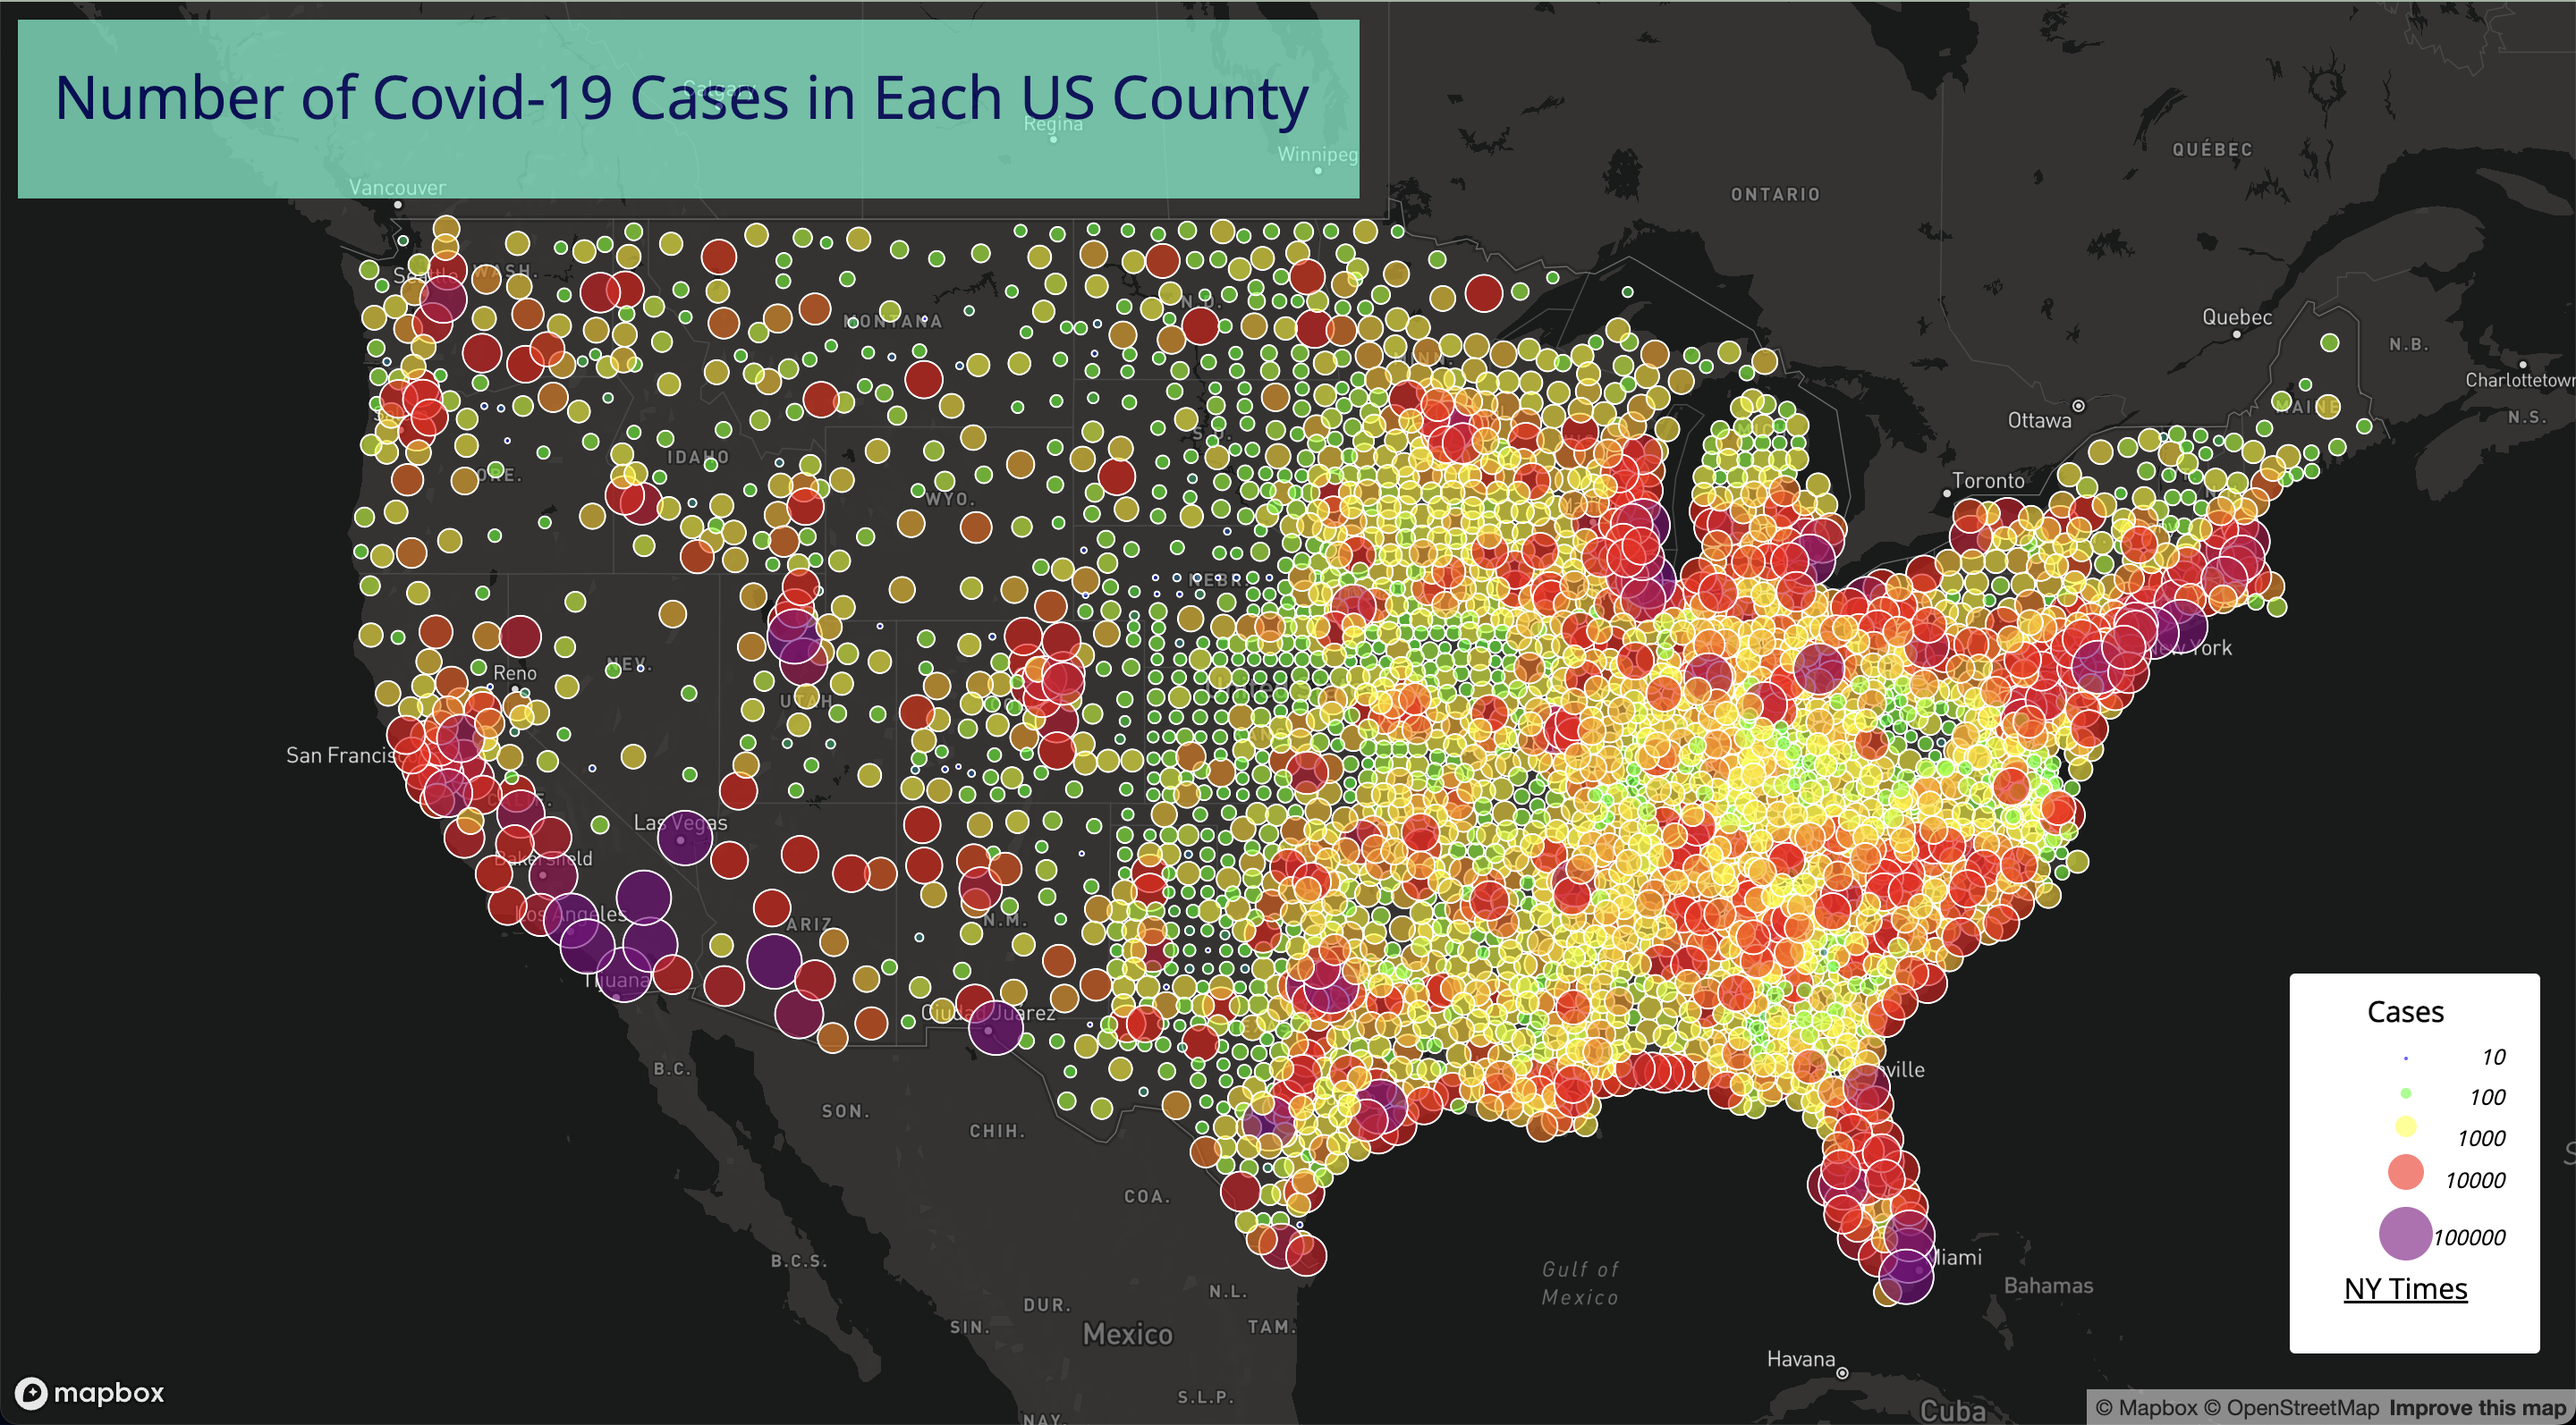
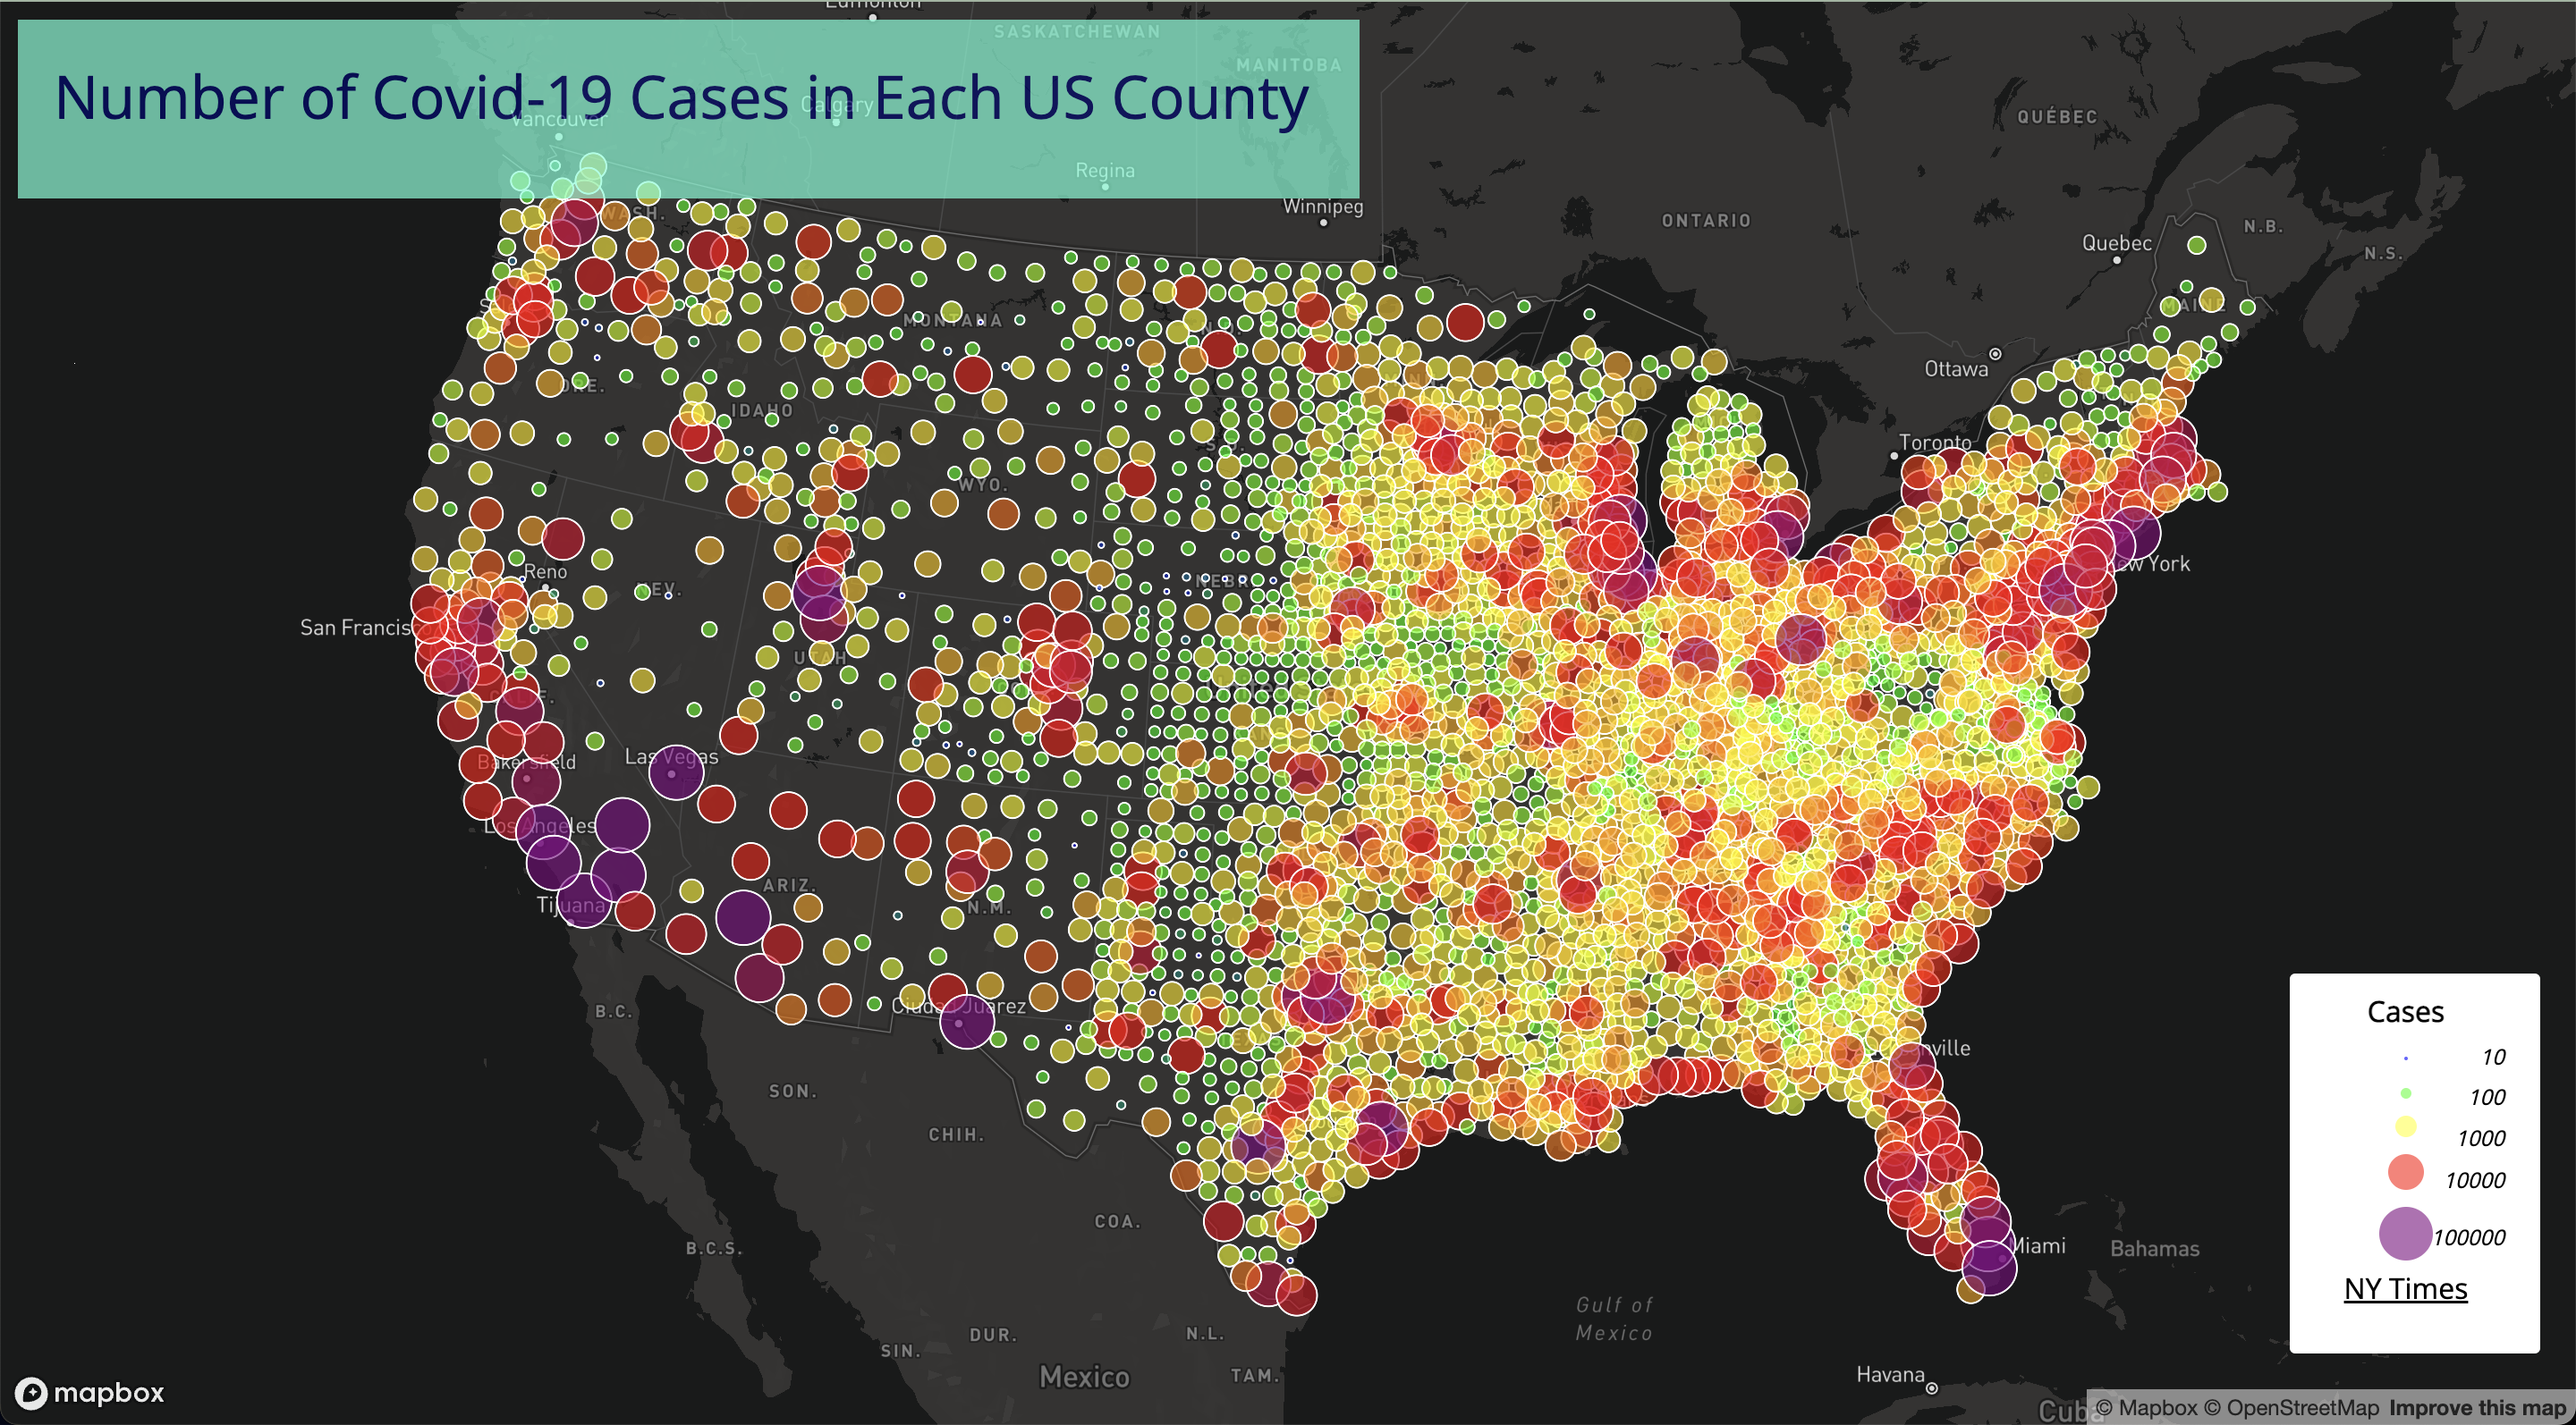
update map projection

diff --git a/js/map2.js b/js/map2.js
@@ -19,7 +19,7 @@ async function geojsonFetch() {
         throw new Error(`HTTP error! status: ${response.status}`);
     }
     let cases = await response.json();
-
+    map.setProjection({name: 'albers'});
     map.on('load', () => { 
         map.addSource('covid-cases', {
             type: 'geojson',

diff --git a/js/map1.js b/js/map1.js
@@ -16,6 +16,7 @@ async function geojsonFetch() {
     }
     let rates = await response.json();
 
+    map.setProjection({name: 'albers'});
     map.on('load', function loadingData() {
         map.addSource('covid_rates', {
             type: 'geojson',
